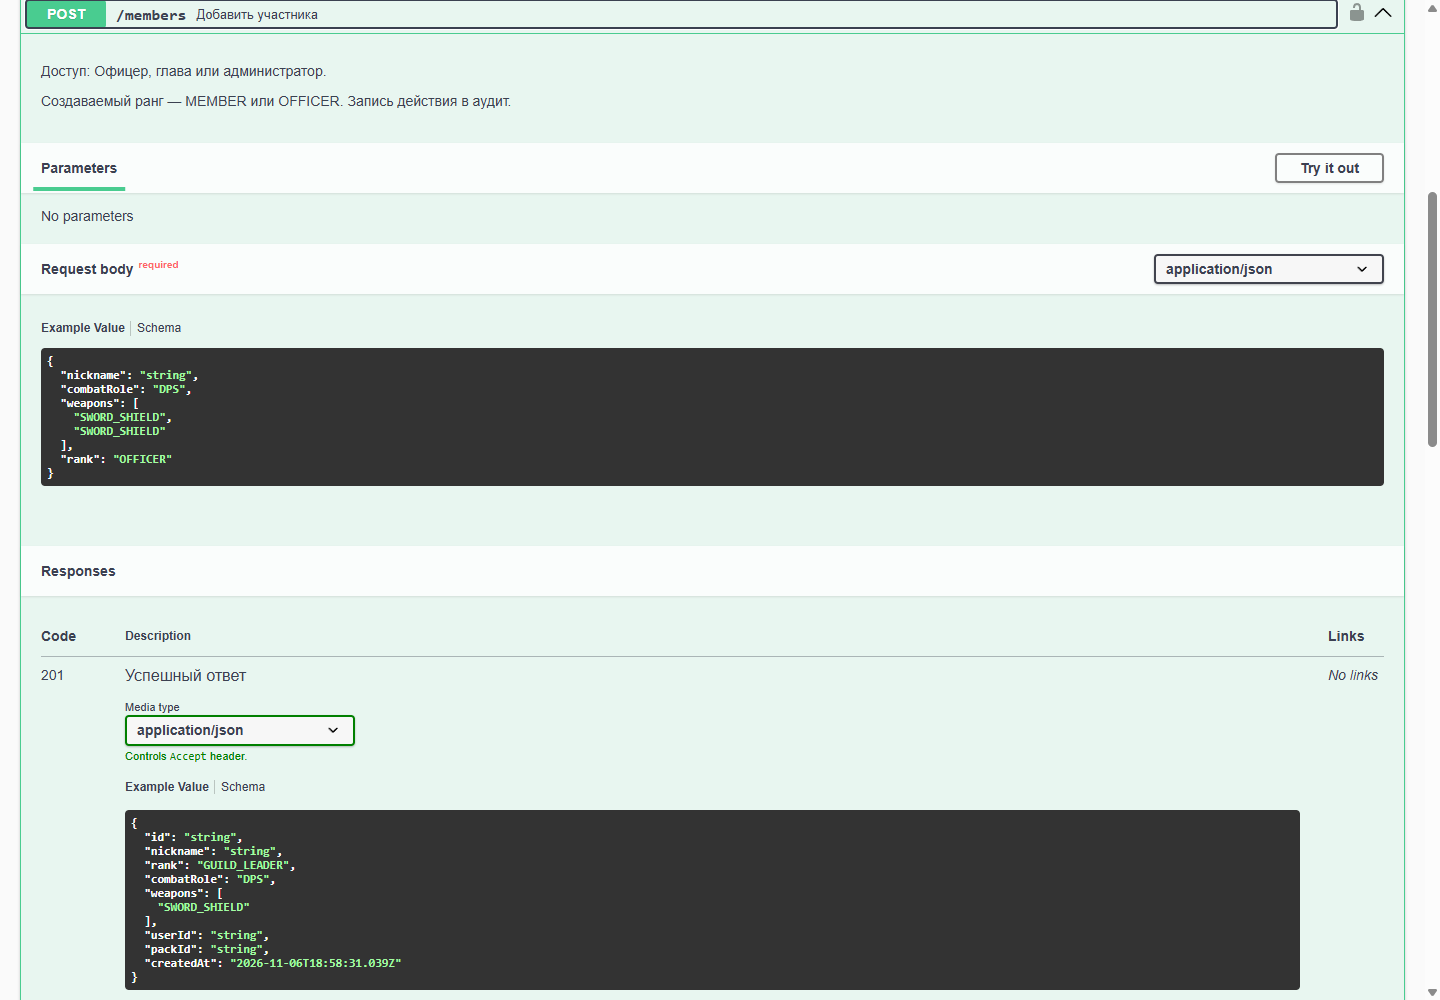
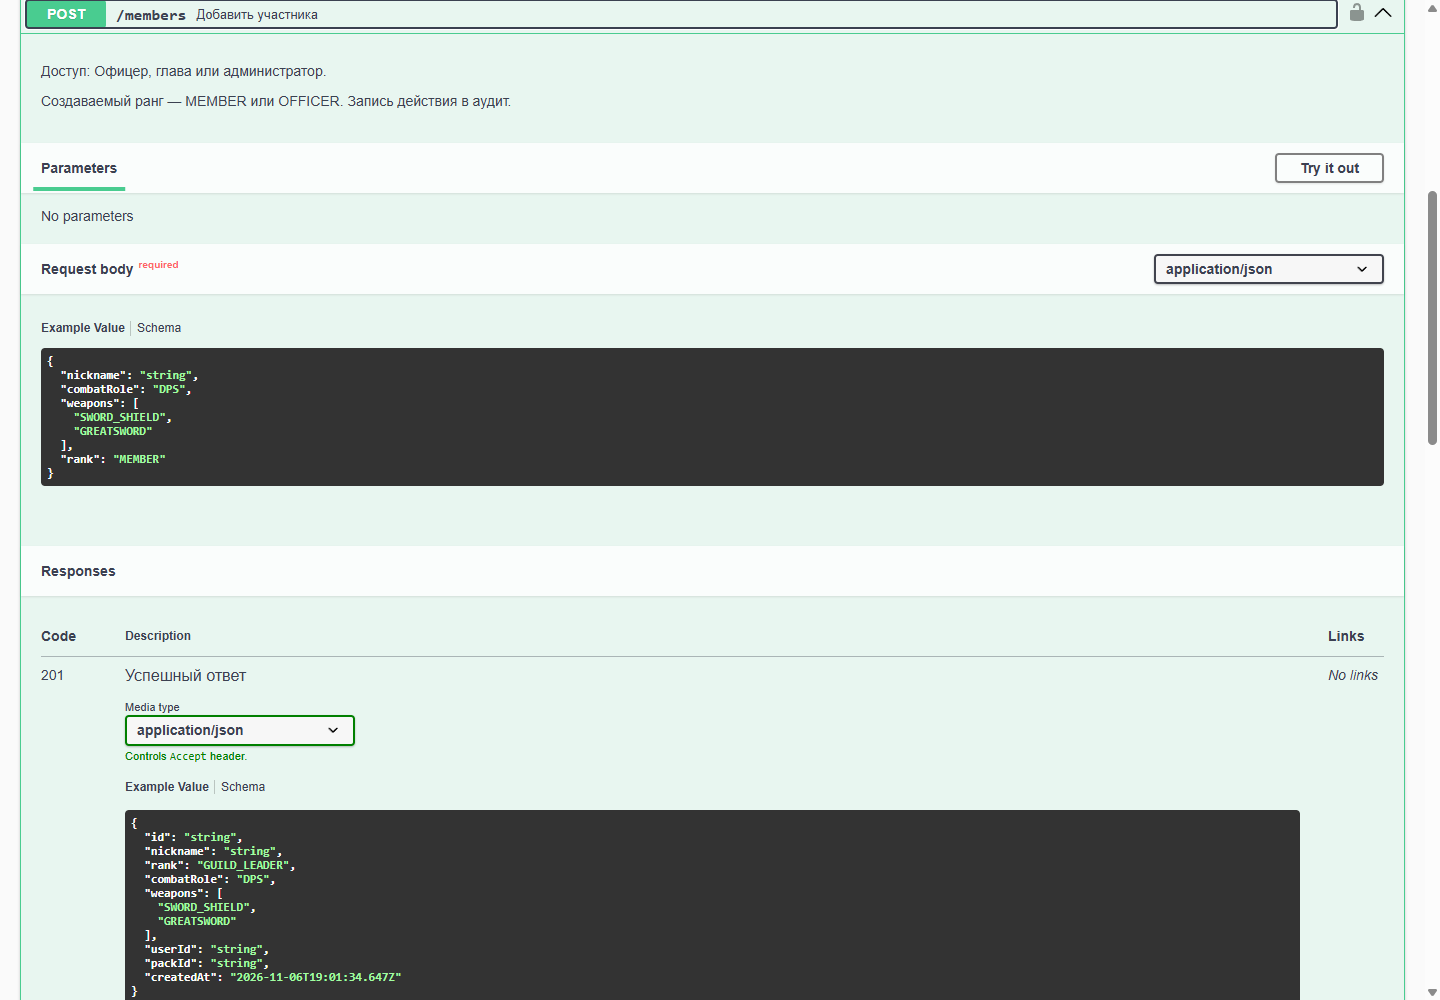
fix: валидные примеры оружия и чек-ина в Swagger

Changed region(s): [[0.0625, 0.899, 0.9062, 1.0], [0.0625, 0.403, 0.125, 0.465]]

diff --git a/apps/api/src/openapi/schemas.ts b/apps/api/src/openapi/schemas.ts
@@ -60,6 +60,7 @@ const generated = Object.fromEntries(
     if (weapons) {
       weapons.uniqueItems = true;
       weapons.description = 'Два разных оружия RU-сервера.';
+      weapons.example = [shared.WEAPONS[0], shared.WEAPONS[1]];
     }
     return [name, converted];
   }),
@@ -69,6 +70,7 @@ const role = nullable(enumeration(shared.COMBAT_ROLES));
 const weapons = {
   ...array(enumeration(shared.WEAPONS)),
   description: 'У старых записей возможен пустой массив.',
+  example: [shared.WEAPONS[0], shared.WEAPONS[1]],
 };
 const roster = { id: str, nickname: str, rank, combatRole: role, weapons, discord: nullable(str) };
 const event = {
@@ -234,9 +236,12 @@ export const schemas: Record<string, SchemaObject> = {
 };
 const manualAmount = schemas.ManualDkp.properties?.amount as SchemaObject;
 manualAmount.not = { enum: [0] };
+manualAmount.example = 1;
+(schemas.SubmitCheckIn.properties!.code as SchemaObject).example = '123';
 for (const name of ['CreateMember', 'ChangeRank']) {
   const assignedRank = schemas[name].properties?.rank as SchemaObject;
   assignedRank.enum = ['OFFICER', 'MEMBER'];
+  assignedRank.example = 'MEMBER';
 }
 
 const fieldDescriptions: Record<string, string> = {

diff --git a/apps/api/src/openapi/openapi.spec.ts b/apps/api/src/openapi/openapi.spec.ts
@@ -8,7 +8,7 @@ import type { OpenAPIObject, OperationObject, SchemaObject } from '@nestjs/swagg
 import { createApiDocument, setupOpenApi } from './openapi';
 import { contracts } from './contracts';
 import { schemas } from './schemas';
-import { WEAPONS } from '@dkp/shared';
+import { WEAPONS, weaponPairSchema } from '@dkp/shared';
 
 jest.mock('@nestjs/passport', () => ({ AuthGuard: () => class {} }));
 
@@ -83,6 +83,7 @@ describe('Контракт OpenAPI', () => {
 
   it('передаёт ограничения общей валидации и оружие RU', () => {
     const pair = schemas.UpdateOwnProfile.properties!.weapons as SchemaObject;
+    expect(weaponPairSchema.safeParse(pair.example).success).toBe(true);
     expect(pair).toMatchObject({
       minItems: 2,
       maxItems: 2,
